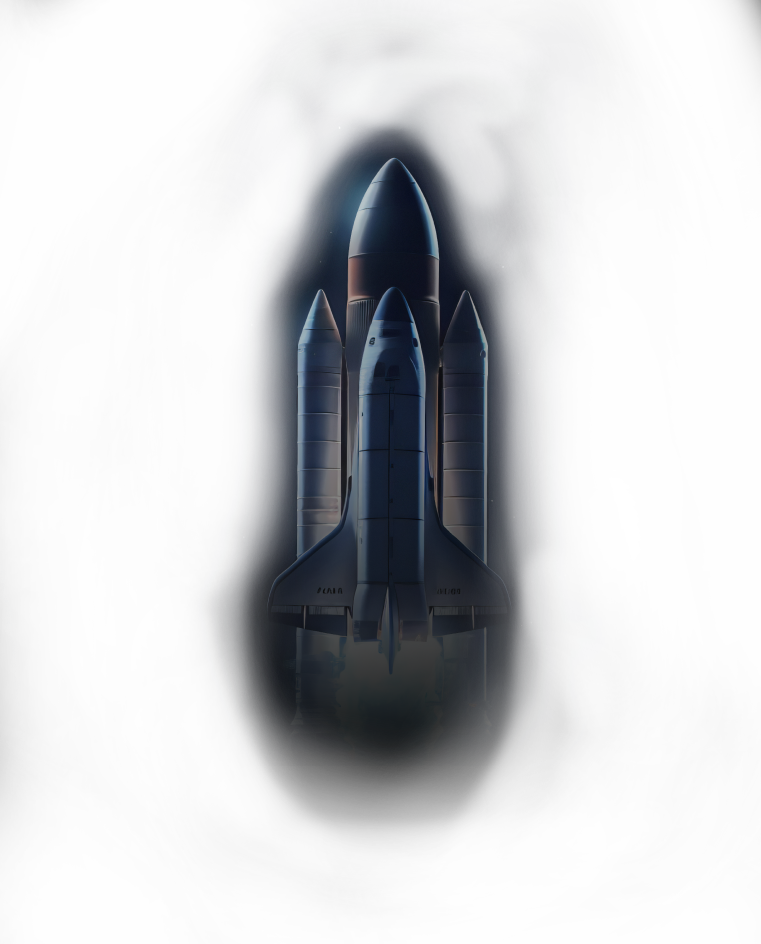
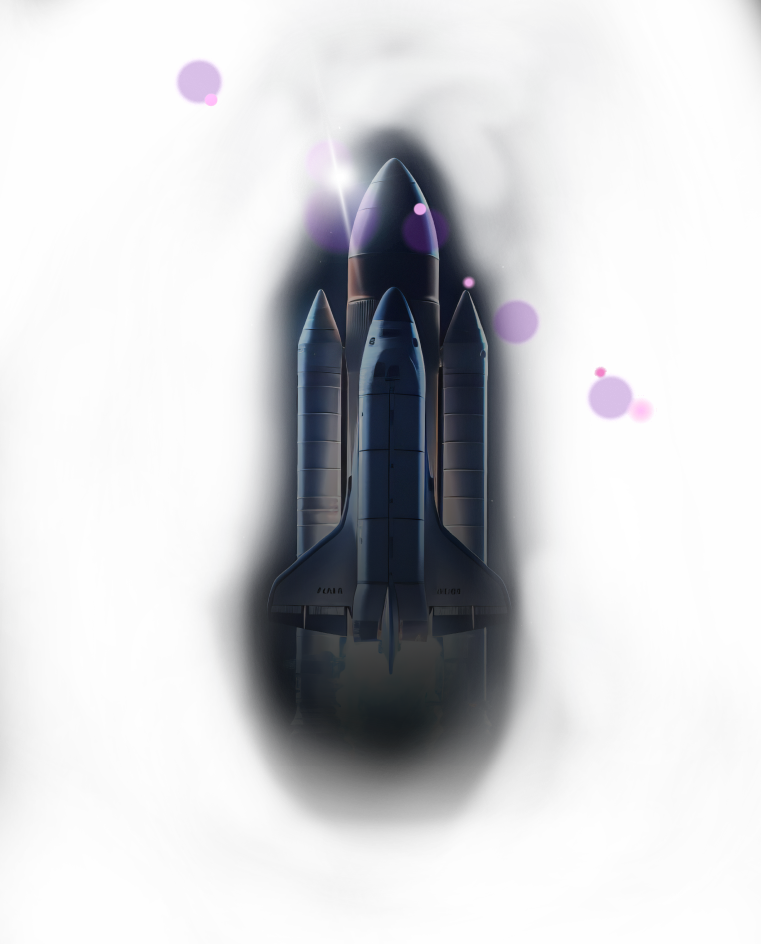
Implementação da Hero section + integração com a navbar

diff --git a/css/header.css b/css/header.css
@@ -3,67 +3,129 @@
     background-color: var(--space-color);
     background-image: url("../svg/Stars.svg");
 
-    height: 100vh;
+    height: 110vh;
     width: 100vw;
 
-    display: flex;
-    justify-content: center;
-    flex-direction: row;
     scroll-behavior: smooth;
 }
 
+.img-div {
+    background-image: url("../img/comets.png");
+    background-size: contain;
+    width: fit-content;
+    margin: 0 auto;
+
+
+    z-index: -10;
+}
 
 .foguete {
-    position: absolute;
-    top: 5%;
-    left: 30vw;
+    margin: 0 4.5% 0;
 
-    filter: opacity(0.6);
+    filter: opacity(0.7);
     transition: 1000ms;
-    animation: rocketup 3.5s steps(60, end);
+    display: none;
+    animation: shine 2.5s infinite;
 }
 
-.lens-flare {
-    position: absolute;
-    top: 4vh;
-    left: 32vw;
-    z-index: 3;
-    opacity: 0.7;
-    animation: shine 8.5s infinite,
-        tilt 3.5s infinite,
-        rocketup 3.5s steps(30, end);
+
+.hero-intro {
+    position: relative;
+    display: grid;
+
+    top: -52vh;
+
+    text-align: center;
+
+    gap: 1.5rem;
 }
 
-.lens-blur {
-    position: absolute;
-    top: 12vh;
-    left: 50vw;
-    z-index: 3;
-    animation: shine 3.5s infinite,
-        rocketup 3.5s steps(30, end);
+.hero-mouse {
+    display: none;
+    flex-direction: column;
+    justify-content: center;
+    gap: 1.25rem;
 }
 
-.flare {
-    position: absolute;
-    opacity: 0.5;
-    top: 1%;
-    left: 50vw;
-    z-index: 2;
+.hero-mouse > img {
+    width: fit-content;
+    height: fit-content;
+    margin: 0 auto;
+
+    cursor:all-scroll;
+}
+
+.hero-intro h1 {
+
+    font-weight: 500;
+    font-family: 'Orbitron';
+    color: white;
+
+    overflow: hidden;
+    white-space: nowrap;
+    margin: 0 auto;
     animation:
-        tilt 3.5s infinite,
-        rocketup 3.5s steps(30, end);
-    /* shine 1.5s infinite; */
+        typing 2.5s steps(40, end);
 }
+
+.hero-intro p {
+    line-height: 1.5;
+
+    color: rgba(255, 255, 255, 0.67);
+}
+
+.hero-intro>button {
+    margin: 0 auto;
+    width: fit-content;
+}
+
+
+.hero-intro>div {
+    width: 100%;
+    
+}
+
+.logo-title{
+    cursor: pointer;
+}
+
+/* Sobrescrita */
+
+.foguete{
+    display: none;
+}
+
+.hero-intro{
+    position: static;
+    margin-top: 5vh;
+}
+
+.hero-intro h1, p{
+    font-size: 1.2rem;
+    white-space: wrap;
+}
+
+
+@keyframes typing {
+    from {
+        width: 0;
+    }
+
+    to {
+        width: 100%;
+    }
+}
+
 
 @keyframes rocketup {
     0% {
         opacity: 10%;
-        top: 10%;
+        margin: 0 auto;
     }
 
     100% {
         opacity: 100%;
-        top: 5%
+        margin: -10% auto;
     }
 }
 
@@ -87,101 +149,71 @@
 
 @keyframes shine {
     0% {
-        opacity: 1;
-        filter: brightness(2.3);
+        opacity: 0.80;
+    }
+
+    25% {
+
+        opacity: 0.87;
     }
 
     50% {
 
-        opacity: 0.6;
-        filter: brightness(0.5);
+        opacity: 0.95;
     }
 
     75% {
 
-        opacity: 0.6;
-        filter: brightness(0.9);
+        opacity: 0.87;
     }
 
     100% {
 
-        opacity: 1;
-        filter: brightness(2.3);
+        opacity: 0.80;
     }
 }
 
-.hero-intro {
-    position: absolute;
-    display: grid;
 
-    top: 45vh;
-    left: 25vw;
 
-    text-align: center;
 
-    gap: 24px;
-}
 
-.hero-mouse {
-    position: absolute;
-    display: flex;
-    flex-direction: column;
-    justify-content: center;
-    gap: 20px;
-
-    top: 85vh;
-    left: 50vw;
-}
-
-.hero-intro h1 {
-    font-size: 70px;
-    font-weight: 500;
-    font-family: 'Orbitron';
-}
-
-.hero-intro p {
-    font-size: 24px;
-    line-height: 1.5;
-
-    color: rgba(255, 255, 255, 0.67);
-}
-
-.hero-intro>button {
-    margin: 0 auto;
-    width: fit-content;
-}
-
-.hero-intro h1 {
-    overflow: hidden;
-    white-space: nowrap;
-    margin: 0 auto;
-    animation:
-        typing 2.5s steps(40, end);
-}
-
-.hero-intro>div {
-    width: 100%;
-
-}
-
-@keyframes rocketup {
-    0% {
-        opacity: 10%;
-        top: 10%;
+@media screen and (min-width: 600px) and (orientation: portrait), (min-height: 600px) and (orientation:landscape){
+    
+    .foguete{
+        display:inline-block;
     }
-
-    100% {
-        opacity: 100%;
-        top: 5%
+    
+    .hero-intro{
+        margin-top: 20vh;
+        position: relative;
+    }
+    .hero-intro h1, p {
+        font-size: 1.4rem;
+    }
+    .hero-mouse{
+        display: none;
     }
 }
 
-@keyframes typing {
-    from {
-        width: 0
+@media screen and (min-width: 900px){
+
+    .hero-intro h1{
+        font-size: 2.4rem;
+    }
+    .hero-intro p {
+        font-size: 1.9rem;
+    }
+    .hero-mouse {
+        display: flex;
+    }
+}
+
+@media screen and (min-width: 1800px) {
+    .hero-intro h1 {
+        font-size: 4.375rem;
     }
 
-    to {
-        width: 100%
+    .hero-intro p {
+        font-size: 1.5rem;
     }
 }

diff --git a/index.html b/index.html
@@ -38,15 +38,15 @@
             </span>
         </nav>
         <section>
-            <img draggable="false" class="lens-flare" src="./img/lens-flare.png" alt="">
-            <!-- <img draggable="false" class="lens-blur" src="./img/lens-blur.png" alt=""> -->
-            <!-- <img draggable="false" class="flare" src="./img/flare1.png" alt=""> -->
-            <img draggable="false" class="foguete" src="./img/foguete.png" alt="">
+     
+            <div class="img-div">
+                <img draggable="false" class="foguete" src="./img/foguete2.png" alt="">
+            </div>
+       
             <article class="hero-intro">
                 <hgroup draggable="false">
-                    <h1>_Explore novos </h1>
                     <h1>
-                        mundos com a <span class="logo-title">{OrbitTrips}!</span></h1>
+                        _Explore novos <br> mundos com a <span class="logo-title">{OrbitTrips}!</span></h1>
 
                     </h1>
 
@@ -54,14 +54,14 @@
                 </hgroup>
                 <button>VOE PARA ESPAÇO</button>
 
+                <div class="hero-mouse">
+        
+                    <img src="./svg/bi_mouse.svg" alt="Mouse">
+        
+                    <img src="./svg/ph_arrow-up-bold.svg" alt="Arrow down">
+        
+                </div>
             </article>
-            <div class="hero-mouse">
-
-                <img src="./svg/bi_mouse.svg" alt="Mouse">
-
-                <img src="./svg/ph_arrow-up-bold.svg" alt="Arrow down">
-
-            </div>
         </section>
     </header>
     <main class="container"></main>

diff --git a/css/nav.css b/css/nav.css
@@ -21,6 +21,8 @@
     height: 7.5rem;
     width: 73vw;
 
+    margin: 0 auto;
+
     display: grid;
     grid-template-columns: 2fr 4fr;
     z-index: 10;
